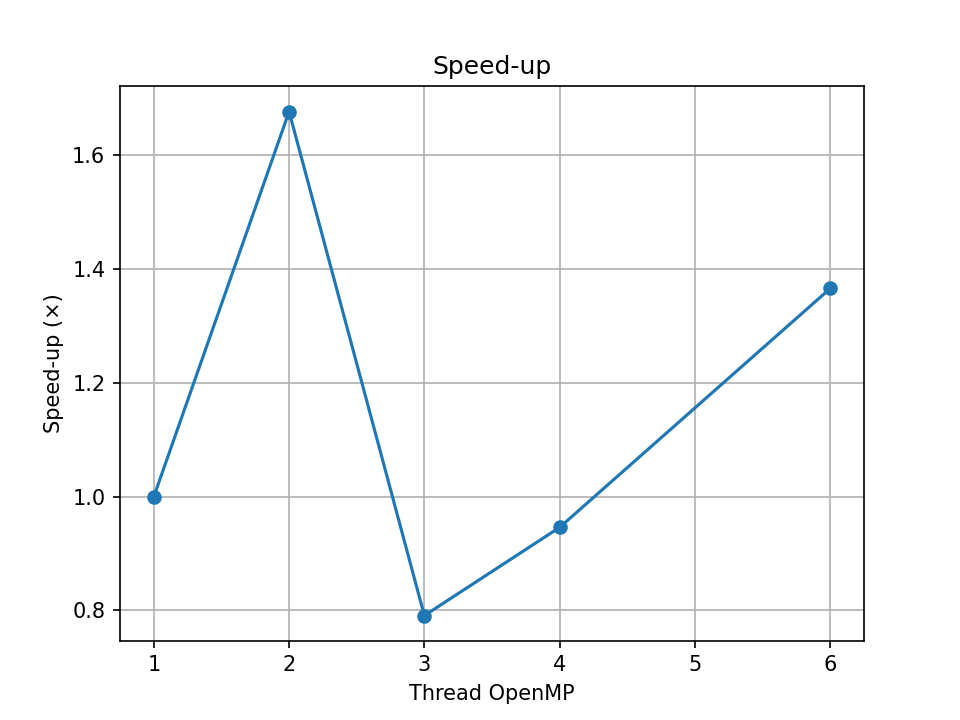
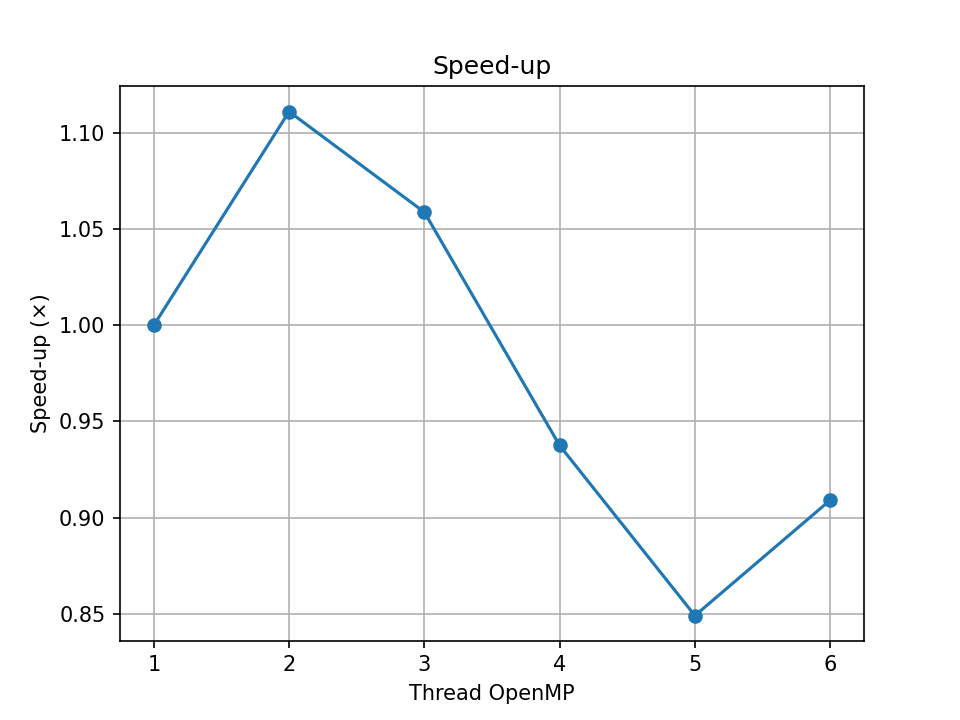
refactored to avoid errors

diff --git a/monolithic/src/main_with_sobel.c b/monolithic/src/main_with_sobel.c
@@ -28,7 +28,7 @@ int main(int argc, char *argv[])
     unsigned char *img =
         stbi_load(argv[1], &width, &height, &channels, 0);
     if (!img) {
-        fprintf(stderr, "Errore caricando l'immagine \"%s\"\n", argv[1]);
+        fprintf(stderr, "Errore caricando immagine \"%s\"\n", argv[1]);
         return 1;
     }
 

diff --git a/monolithic/src/main.c b/monolithic/src/main.c
@@ -20,7 +20,7 @@ int main(int argc, char *argv[]) {
     int width, height, channels;
     unsigned char *img = stbi_load(argv[1], &width, &height, &channels, 0);
     if (!img) {
-        fprintf(stderr, "Errore caricando l'immagine\n");
+        fprintf(stderr, "Errore caricando immagine\n");
         return 1;
     }
 

diff --git a/monolithic/README.md b/monolithic/README.md
@@ -19,6 +19,11 @@ make -f monolithic/Makefile_with_sobel -C monolithic
 Alternatively run the benchmarking script:
 
 ```bash
-./scripts/bench_and_plot_monolithic.sh images/test.jpg
+./monolithic/scripts/bench_and_plot_monolithic.sh monolithic/images/test.jpg "1 2 3 4 6" 1 1
 ```
-
+Where each piece represent respectively:
+- path of the script
+- path of the image to apply the processing on
+- list of number of threads to verify how performances changes
+- number of runs for the thread which is running (to obtain an average result that will give a better perspective since each run is different)
+- number of operations in the kernel: to obtain a more compute-bound algorithm set this parameter to an high value
